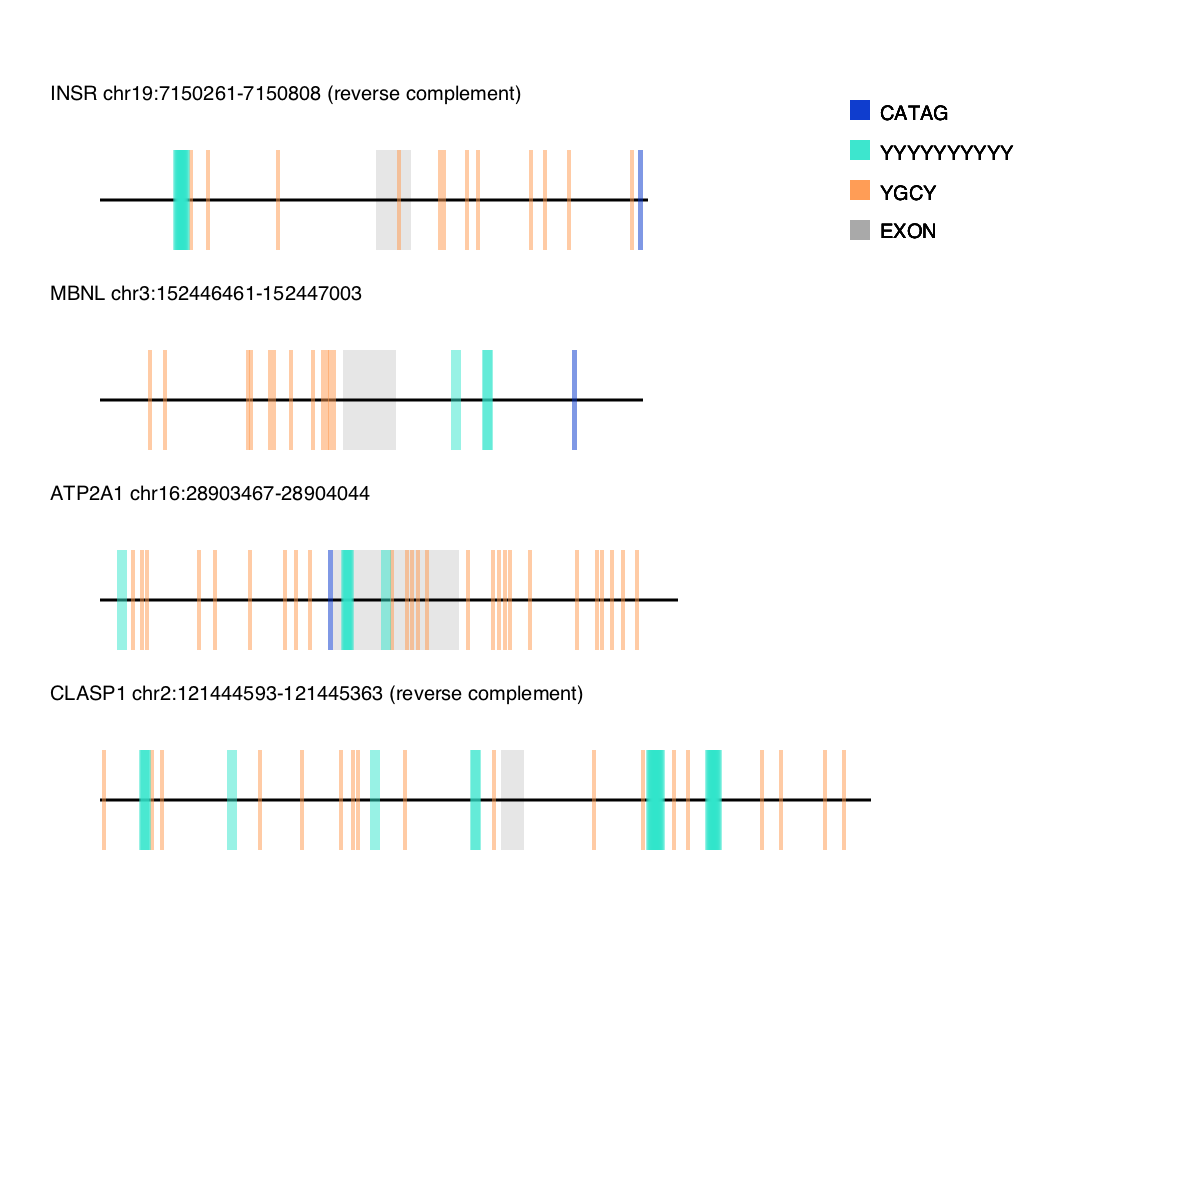
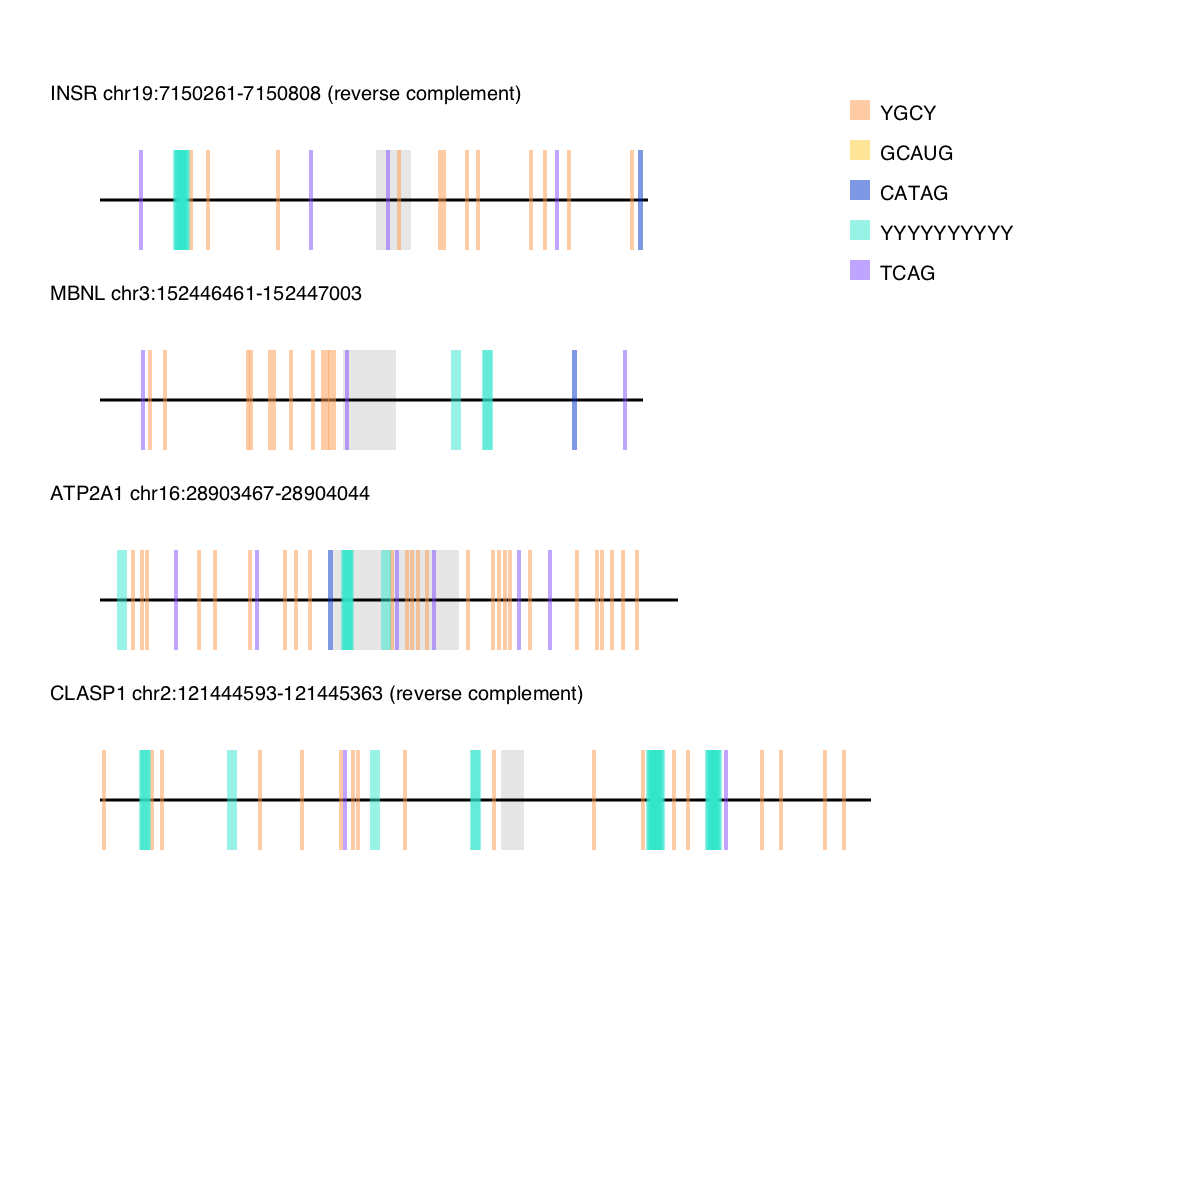
added capacity for 5 motifs

diff --git a/motif-mark/Script/motif-mark-oop.py b/motif-mark/Script/motif-mark-oop.py
@@ -3,11 +3,8 @@ import itertools
 from itertools import product
 import re
 import cairo
-import math
-from IPython import display
-from IPython.display import SVG, display, Image
-import re
 import argparse
+from IPython import display
 
 def get_args():
     parser = argparse.ArgumentParser(description="A program to input coverage limit")
@@ -15,9 +12,9 @@ def get_args():
     parser.add_argument("-m", help="motifs file", required=True, type=str)
     return parser.parse_args()
 
-args = get_args()
-fasta_filename = args.f # -f file carrying the sequences in fasta format
-motif_filename = args.m # -m file carrying the motifs
+# args = get_args()
+fasta_filename = "Figure_1.fasta" # -f file carrying the sequences in fasta format
+motif_filename = "Fig_1_motifs.txt" # -m file carrying the motifs
 out_filename = fasta_filename.split('.')[0] + ".png"
 
 # Dictionary which holds all the possible nucleotides represented by a specific IUPAC characters
@@ -247,8 +244,9 @@ myplot.create_background_color()
 color_list = [[1,0.6,0.3],[1,0.8,0.2 ],[0,0.2,0.8 ], [0.2,0.9,0.8],[0.5,0.3,1]] # yellow, blue, green, orange, # purple
 
 for i in zip(motif_list, color_list):
-   myplot.set_motif_colors(i[0].upper(), i[1]) 
-   
+    myplot.set_motif_colors(i[0].upper(), i[1]) 
+    
+    
 n = 0
 for i in record_list:
     n += 1
